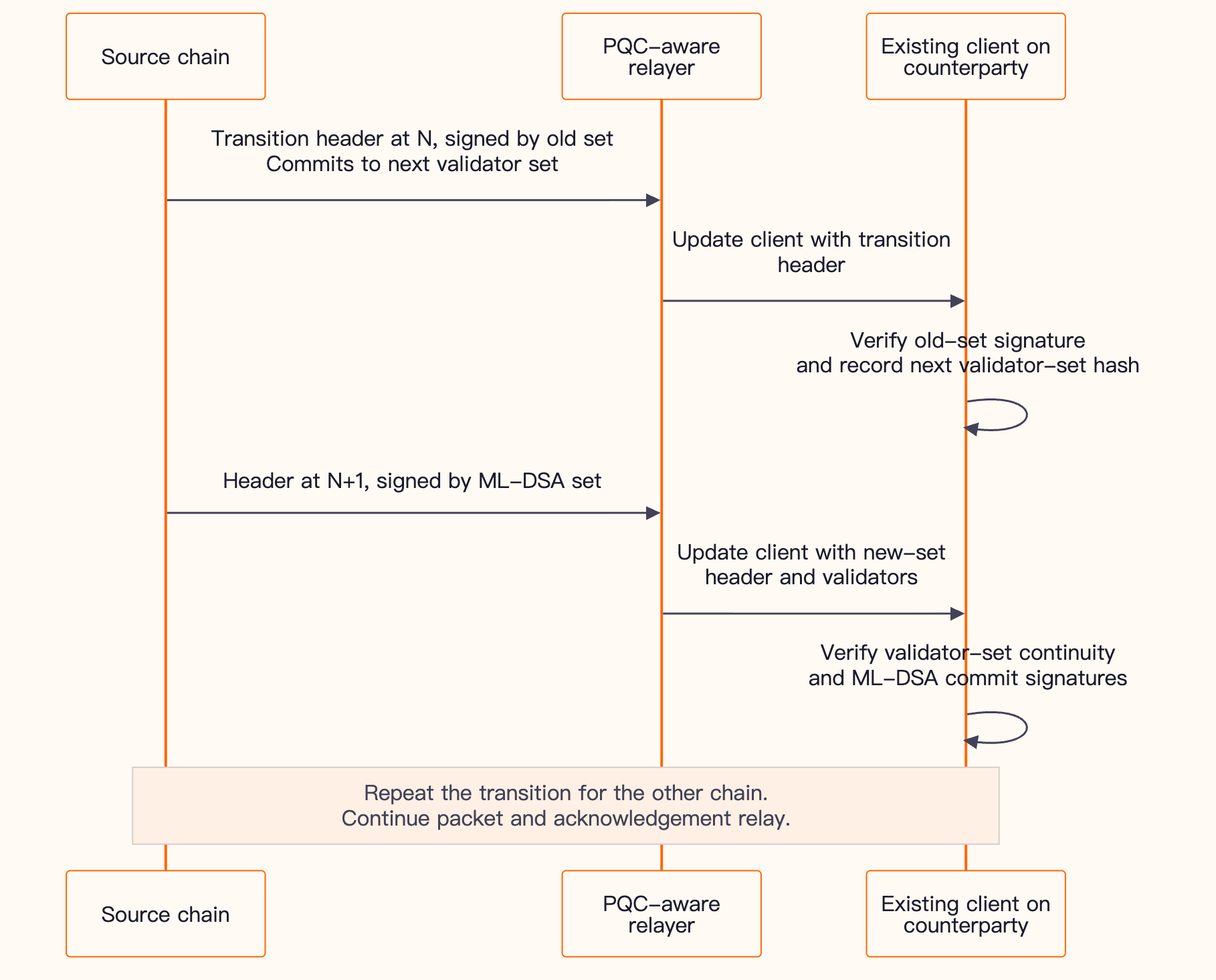
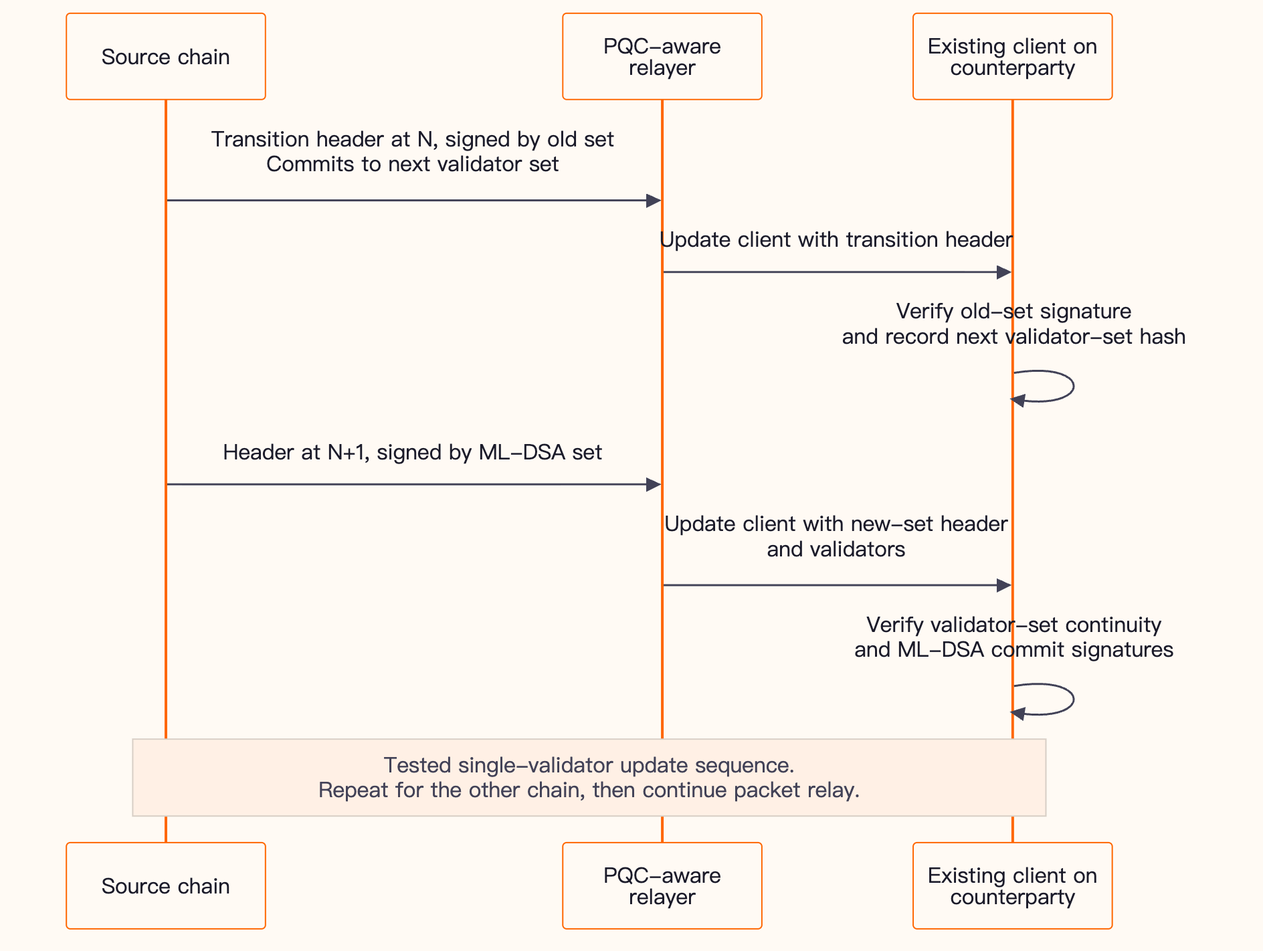
docs: refine post-quantum migration article and diagrams

diff --git a/x/pqcauth/pqc-migration.md b/x/pqcauth/pqc-migration.md
@@ -1,10 +1,12 @@
-# Dora Vota Post-Quantum Migration: Architecture, Implementation, and Validation
+# Dora Vota’s Post-Quantum Migration: Architecture, Security Model, and Evaluation
 
-Dora Vota's migration combines **native ML-DSA-65 accounts and consensus keys** with **hybrid authentication for legacy accounts that must keep their addresses**. The aim is to upgrade the chain's signing systems while preserving its history and giving users a practical way to migrate address-bound assets and permissions.
+Dora Vota’s post-quantum migration introduces two complementary paths for transaction authentication: **native ML-DSA-65 accounts** and **hybrid transaction authentication for existing accounts that retain their addresses**. A separate migration replaces classical validator consensus keys with ML-DSA-65 keys. Together, these paths are intended to extend post-quantum protection to account and consensus signatures while preserving on-chain state.
 
-This article explains the staged upgrade path and the results of our account, consensus, and IBC tests. The tests demonstrate these capabilities in isolated networks; production migration and broader end-to-end security still require further validation.
+This article describes the architecture, security boundaries, migration dependencies, and functional evaluation of the implementation. Post-quantum cryptography (PQC) here refers primarily to digital signatures for authentication and integrity; it does not imply encryption of transaction data.
 
-## 1. Why Account Migration Needs Two Paths
+**Scope and status.** This revision, dated September 8, 2026, describes the SDK v0.55.0 / CometBFT v0.40.0 target implementation. The reported results were obtained in controlled, single-server test networks. Implemented capabilities and observed test outcomes are distinct from production activation: this article is not a statement that all accounts, validators, or interchain connections have completed migration. Production readiness and deployment require separate operational and security assessment.
+
+## 1. Migration Rationale and Account Paths
 
 The classical starting point uses secp256k1 for most account signatures and Ed25519 for validator consensus signatures. A sufficiently capable quantum computer running Shor's algorithm could break the discrete-logarithm assumptions behind both schemes. An account's public key is normally revealed when it first signs an on-chain transaction and may also be exposed elsewhere. A hidden public key is therefore not a substitute for migrating authentication.
 
@@ -14,13 +16,13 @@ For an existing chain, changing the signature algorithm also changes how users c
 |---|---|---|
 | New account | Use native ML-DSA-65 through the SDK | New ML-DSA address |
 | Existing account whose assets and permissions can move | Create a native account, then migrate each supported asset and permission | New ML-DSA address |
-| Existing account that must retain its address | Register ML-DSA keys with `x/pqcauth` and require hybrid authorization | Existing address retained |
+| Existing account that must retain its address | Register ML-DSA keys with `x/pqcauth` and require hybrid transaction authentication | Existing address retained |
 
 Validator consensus keys follow a separate migration path. Rotating them changes the validator's consensus address, while preserving its staking operator identity. Protecting an operator account's transactions and protecting the validator's consensus votes are distinct tasks.
 
 ## 2. Native ML-DSA Support
 
-The [target dependencies](https://github.com/DoraFactory/doravota/blob/pqc-auth/go.mod) use Cosmos SDK v0.55.0 and CometBFT v0.40.0. Their ML-DSA-65 support is built on Cloudflare CIRCL's implementation of the algorithm standardized in [NIST FIPS 204](https://csrc.nist.gov/pubs/fips/204/final). ML-DSA relies on module-lattice problems and is designed to resist both classical and quantum attacks.
+The [target dependencies](https://github.com/DoraFactory/doravota/blob/pqc-auth/go.mod) use Cosmos SDK v0.55.0 and CometBFT v0.40.0. Their ML-DSA-65 support is built on Cloudflare CIRCL's implementation of the algorithm standardized in [NIST FIPS 204](https://csrc.nist.gov/pubs/fips/204/final). ML-DSA is a module-lattice-based digital signature algorithm designed to resist known classical and quantum attacks. Use of an algorithm standardized in FIPS 204 does not, by itself, constitute FIPS validation of the implementation or certification of the network.
 
 | Component | Responsibility |
 |---|---|
@@ -42,7 +44,7 @@ dorad keys add alice-pqc \
 
 The SDK derives the account address from the ML-DSA public key, signs transactions with the corresponding private key, and verifies them through `x/auth`.
 
-**Native ML-DSA accounts do not need an `x/pqcauth` second factor.** The current [Ante implementation](https://github.com/DoraFactory/doravota/blob/pqc-auth/x/pqcauth/ante/verify.go) recognizes a verified native ML-DSA signature as satisfying the global PQC requirement, including `REQUIRED` mode. Such accounts cannot register `pqcauth` keys or attach a `pqcauth` authorization for themselves. This keeps the native and legacy authentication paths distinct.
+**Native ML-DSA accounts do not require an additional `x/pqcauth` signature.** The current [Ante implementation](https://github.com/DoraFactory/doravota/blob/pqc-auth/x/pqcauth/ante/verify.go) recognizes a verified native ML-DSA signature as satisfying the global PQC requirement, including `REQUIRED` mode. Such accounts cannot register `pqcauth` keys or attach a `pqcauth` authorization for themselves. This keeps the native and legacy authentication paths distinct.
 
 ### 2.2 Native Consensus Signing
 
@@ -50,47 +52,47 @@ Once governance permits the `ml_dsa_65` validator public-key type, validators ca
 
 The migration retains CometBFT's consensus protocol and each validator's operator identity. The SDK's [`MsgRotateConsPubKey`](https://github.com/cosmos/cosmos-sdk/blob/v0.55.0/docs/architecture/adr-016-validator-consensus-key-rotation.md) schedules a new consensus key, and an ABCI validator update changes the active validator set. This protects signing with the new keys; it does not re-sign historical blocks or replace P2P node identities. The operational sequence is described in Section 4.2.
 
-## 3. Preserving Legacy Addresses with `x/pqcauth`
+## 3. Hybrid Transaction Authentication with `x/pqcauth`
 
-[`x/pqcauth`](https://github.com/DoraFactory/doravota/blob/pqc-auth/x/pqcauth/README.md) adds ML-DSA authorization to eligible classical accounts without replacing their `BaseAccount` public key or changing their address. An ordinary protected transaction must carry **both the existing Cosmos account signature and a valid ML-DSA-65 signature**.
+[`x/pqcauth`](https://github.com/DoraFactory/doravota/blob/pqc-auth/x/pqcauth/README.md) adds ML-DSA authorization to eligible classical accounts without replacing their `BaseAccount` public key or changing their address. An ordinary protected transaction must carry **both the existing Cosmos account signature and a valid ML-DSA-65 signature**. In this article, “hybrid” denotes this conjunction of classical and post-quantum signature verification, not a new signature algorithm or a claim of multi-factor authentication. Protection depends on correct transaction binding, enforcement, and custody of the registered keys.
 
 ### 3.1 Transaction Verification
 
-The second signature is carried in [`ExtensionPQCAuth`](https://github.com/DoraFactory/doravota/blob/pqc-auth/proto/doravota/pqcauth/v1/extension.proto), inside **`TxBody.extension_options`**, the SDK's critical extension field. It is not placed in `non_critical_extension_options`, whose unrecognized entries may be ignored. Each PQC entry identifies the protected signer and its position in `AuthInfo.signer_infos`; native ML-DSA signers do not receive second-factor entries.
+The additional ML-DSA signature is carried in [`ExtensionPQCAuth`](https://github.com/DoraFactory/doravota/blob/pqc-auth/proto/doravota/pqcauth/v1/extension.proto), inside **`TxBody.extension_options`**, the SDK's critical extension field. It is not placed in `non_critical_extension_options`, whose unrecognized entries may be ignored. Each PQC entry identifies the protected signer and its position in `AuthInfo.signer_infos`; native ML-DSA signers do not receive additional PQC authorization entries.
 
 ![Protected transaction verification: format checks, Cosmos signature verification, PQC policy and ML-DSA verification, then message execution.](https://raw.githubusercontent.com/DoraFactory/doravota/pqc-auth/x/pqcauth/diagrams/transaction-verification.png)
 
-*Figure 1. The protected transaction path. Any failed authentication check rejects the transaction before business-message execution; it never falls back to classical-only authorization. Registration and recovery use dedicated lifecycle proofs, described below.* [Diagram source](https://github.com/DoraFactory/doravota/blob/pqc-auth/x/pqcauth/diagrams/transaction-verification.mmd).
+*Figure 1. Simplified authentication path for an ordinary protected legacy-account transaction. Any failed authentication check rejects the transaction before business-message execution; it never falls back to classical-only authorization. Registration and recovery use dedicated lifecycle proofs, described below.* [Diagram source](https://github.com/DoraFactory/doravota/blob/pqc-auth/x/pqcauth/diagrams/transaction-verification.mmd).
 
-The [AnteHandler](https://github.com/DoraFactory/doravota/blob/pqc-auth/app/ante.go) validates extension placement and encoding, bounds transaction resources and verification work, verifies the standard signature, and then checks the second factor through [`VerifyPQCDecorator`](https://github.com/DoraFactory/doravota/blob/pqc-auth/x/pqcauth/ante/verify.go). Bank, staking, and Wasm messages run only after transaction authentication succeeds; business modules do not need to implement the same second-factor check independently.
+The [AnteHandler](https://github.com/DoraFactory/doravota/blob/pqc-auth/app/ante.go) validates extension placement and encoding, bounds transaction resources and verification work, verifies the standard signature, and then checks the ML-DSA authorization through [`VerifyPQCDecorator`](https://github.com/DoraFactory/doravota/blob/pqc-auth/x/pqcauth/ante/verify.go). Bank, staking, and Wasm messages run only after transaction authentication succeeds; business modules do not need to implement the same additional signature check independently.
 
 The ML-DSA signature covers a deterministic [`PQCSignDocV1`](https://github.com/DoraFactory/doravota/blob/pqc-auth/x/pqcauth/types/canonical_tx.go). It binds the network and chain, account number and sequence, signer identity and order, key ID, policy version, transaction body, and `AuthInfo`, including fee and gas. The PQC extension itself is removed from the canonical body to avoid signing a document that contains its own signature. Clients add the resulting extension before producing the standard Cosmos signature over the final transaction.
 
-These bindings prevent a valid authorization from being moved to another chain, account, sequence, key-policy version, or altered transaction. Protected transactions use `SIGN_MODE_DIRECT`.
+These bindings are designed to prevent cross-context replay and transaction substitution: verification checks the authorization against the chain, account, sequence, key-policy version, and transaction being processed. Protected transactions use `SIGN_MODE_DIRECT`.
 
-### 3.2 Registration, Rotation, and Recovery
+### 3.2 Registration, Key Rotation, and Signing-Key Recovery
 
 Registration atomically installs **two distinct ML-DSA public keys**: a routine signing key and a mandatory recovery key. It also enables account-level self-protection. The module stores public-key records and policy state, never private keys. Clients should keep the recovery private key offline and use it only for its authorized lifecycle operations.
 
 Account-key and protection-policy changes submitted at height H normally become effective at H+1. Transactions within H therefore cannot start using a newly registered or rotated key halfway through the block. Governance parameter changes have their own activation rules, including a safety delay for tightening changes.
 
-The [lifecycle messages](https://github.com/DoraFactory/doravota/blob/pqc-auth/proto/doravota/pqcauth/v1/tx.proto) support registration, signing-key and recovery-key rotation, protection changes, revocation of inactive keys, and recovery of a lost signing key. Recovery authorizes a specific replacement transaction; it does not remove the requirement for the account's standard Cosmos signature. Lifecycle messages must execute directly at the top level, with authorization bound to the exact message, so authz, group, or contract nesting cannot bypass their proofs.
+The [lifecycle messages](https://github.com/DoraFactory/doravota/blob/pqc-auth/proto/doravota/pqcauth/v1/tx.proto) support registration, signing-key and recovery-key rotation, protection changes, revocation of inactive keys, and recovery of a lost signing key. Signing-key recovery authorizes a specific replacement transaction; it does not remove the requirement for the account’s standard Cosmos signature. It therefore restores access to the ML-DSA signing path, not to a lost classical account private key, and is not a general account-recovery mechanism. Lifecycle messages must execute directly at the top level, with authorization bound to the exact message, so authz, group, or contract nesting cannot bypass their proofs.
 
 First registration has a separate trust boundary: no PQC key is yet bound to the account, so it relies on the classical signature plus proof of possession of both new keys. Registration must occur while that classical authorization remains trustworthy. The module supports an irreversible registration cutoff to restrict later enrollment; it cannot use a newly presented ML-DSA key to establish the rightful owner of an already compromised classical account. See the [bootstrap policy](https://github.com/DoraFactory/doravota/blob/pqc-auth/x/pqcauth/README.md#42-bootstrap-boundary-for-first-registration).
 
-### 3.3 What This Layer Protects
+### 3.3 Security Scope and Enforcement Boundaries
 
 `x/pqcauth` protects account-initiated SDK transactions. It does not itself replace consensus signatures, IBC light-client verification, P2P identities, or signature checks implemented inside contracts. Existing delegated permissions also need review; registering a key does not automatically revoke them.
 
-[`PrepareProposal` and `ProcessProposal`](https://github.com/DoraFactory/doravota/blob/pqc-auth/app/proposal.go) enforce transaction verification and aggregate resource limits as well. A proposer cannot obtain valid-block acceptance for an invalid protected transaction merely by bypassing the mempool.
+[`PrepareProposal` and `ProcessProposal`](https://github.com/DoraFactory/doravota/blob/pqc-auth/app/proposal.go) enforce transaction verification and aggregate resource limits as well. Under these handlers, transactions that fail the required proposal-stage authentication checks cause proposal rejection; bypassing mempool admission does not bypass those checks. Proposal acceptance does not guarantee that every business message will execute successfully.
 
 ## 4. Migration Sequence
 
 The migration separates **preserving chain state**, **upgrading account and consensus authentication**, and **extending coverage to the surrounding systems**. After the target software is available, account and consensus work can proceed in coordinated tracks rather than requiring every account to migrate at one height.
 
-![Dora Vota migration dependencies: preserve state through the bridge, enable native and legacy account paths and consensus rotation, then extend security coverage.](https://raw.githubusercontent.com/DoraFactory/doravota/pqc-auth/x/pqcauth/diagrams/migration-sequence.png)
+![Dora Vota migration dependencies: preserve state through the bridge, enable native and legacy account paths and consensus rotation, with parallel wallet, custody, and interchain integration.](https://raw.githubusercontent.com/DoraFactory/doravota/pqc-auth/x/pqcauth/diagrams/migration-sequence.png)
 
-*Figure 2. Migration dependencies, not a completion chart. Native and hybrid account paths cover different account populations. Core account and consensus coverage does not imply end-to-end post-quantum security.* [Diagram source](https://github.com/DoraFactory/doravota/blob/pqc-auth/x/pqcauth/diagrams/migration-sequence.mmd).
+*Figure 2. Software dependencies and parallel migration work, not deployment status. Solid arrows show the software upgrade path and the account and consensus capabilities it enables. Dashed links identify supporting work that can proceed alongside migration. Native and hybrid paths serve different account populations; neither the diagram nor core signing coverage implies end-to-end post-quantum security.* [Diagram source](https://github.com/DoraFactory/doravota/blob/pqc-auth/x/pqcauth/diagrams/migration-sequence.mmd).
 
 ### 4.1 Preserve Application and On-Chain State
 
@@ -107,13 +109,13 @@ Some migrations needed by the older state no longer exist in the target dependen
 
 A consensus-key rotation requires both an on-chain update and a coordinated change to the validator's signing infrastructure:
 
-1. **Permit the key type.** Governance executes `cosmos.consensus.v1.MsgUpdateParams` to add `ml_dsa_65` to the allowed validator key types while retaining types still in use.
-2. **Prepare the replacement key.** Generate it in an isolated home with `dorad init --consensus-key-algo ml_dsa_65`, then export its public key with `dorad comet show-validator --home <isolated-home>`. Key generation alone does not change the active validator.
-3. **Submit the rotation.** The operator submits `dorad tx staking rotate-cons-pub-key '<new-pubkey-json>' --from <operator>`. The SDK checks eligibility and charges the rotation fee. A protected classical operator account must use hybrid authorization; a native operator account signs through the native path.
-4. **Coordinate activation.** Read `apply_height` from the committed transaction events. Stop the affected signer and install the replacement key using the rehearsed procedure, preserving its signing-state safeguards. Ensure the remaining online voting power can carry the chain across activation; do not run duplicate signers or reset signing state to force progress.
-5. **Verify before continuing.** Check staking state, the CometBFT validator set at the relevant height, and a commit signed by the new consensus address. Confirm block production before rotating another validator.
+1. **Enable the supported key type.** Update consensus parameters through governance to permit `ml_dsa_65`, retaining key types required by validators that have not yet migrated.
+2. **Prepare signing infrastructure.** Generate and securely provision the replacement key, verify signer compatibility, and rehearse backup and activation procedures before submitting an on-chain rotation.
+3. **Schedule the rotation.** Submit `MsgRotateConsPubKey` from the validator operator account using the applicable native or hybrid authentication path. Rotation remains subject to the SDK’s eligibility checks and configured fee.
+4. **Coordinate activation.** Use the committed rotation event’s `apply_height` to coordinate the signer change. Preserve anti-double-signing state and ensure that more than two-thirds of total voting power remains online and able to sign validly. Do not run duplicate signers or reset signing state to force progress.
+5. **Verify the transition.** Check staking state, the active CometBFT validator set, commits signed by the replacement key, and continued block production before proceeding with further rotations.
 
-In our four-validator tests, we rotated one validator at a time while the other three continued signing. Production scheduling must account for voting power, not only validator count, and keep more than two-thirds available. Use the reported activation height rather than assuming a fixed offset from transaction inclusion. The four-validator experiment observed H+2; Section 6 describes a separate single-validator transition.
+In our four-validator tests, we rotated one validator at a time while the other three continued signing. Production scheduling must account for voting power rather than validator count. Use the reported activation height rather than assuming a fixed offset from transaction inclusion. The four-validator experiment observed H+2; Section 6 describes a separate single-validator transition.
 
 ### 4.3 Migrate Accounts and Tighten Policy
 
@@ -129,20 +131,20 @@ The relevant enforcement modes apply as follows to ordinary transactions:
 
 An extension that is present must verify even in `OPTIONAL` mode. New registrations enable self-protection at H+1, so optional network-wide enforcement does not mean those accounts are unprotected. Policy tightening, wallet readiness, registration rules, and recovery procedures must be coordinated before enforcement expands.
 
-## 5. Four-Validator Test Results and Measured Costs
+## 5. Functional Evaluation and Measured Costs
 
 We tested the migration with four isolated validator processes on one server, each with its own home, database, ports, and consensus key. The setup also included four user wallets and four operator accounts.
 
-The tests confirmed:
+The following outcomes were observed in the tested configuration:
 
-- Completion of the SDK v0.47 → v0.53 → v0.55 upgrade, with matching App Hash values across the four nodes at the checked heights after each upgrade.
+- The SDK v0.47 → v0.53 → v0.55 upgrade completed, with matching application hashes (`AppHash`) across the four nodes at the checked heights after each upgrade. This establishes agreement at those checkpoints, not an exhaustive verification of all migrated historical state.
 - Successful registration and hybrid transactions, with classical-only transactions from protected accounts rejected.
 - Four Ed25519 → ML-DSA-65 consensus-key rotations, each observed at H+2, followed by continued block production after all nodes restarted.
-- 53 successful on-chain transactions across the tests, including four transfers signed directly by two native ML-DSA accounts.
+- Native account signing was exercised by four successful transfers from two ML-DSA accounts. Across all scenarios, 53 transactions completed successfully; including the registration, transfer, and rotation scenarios described above.
 
 ### 5.1 Transaction Size and Gas
 
-The comparison used the same SDK v0.55 binary and standard `MsgSend`, with four successful transactions per group. Sizes are decoded raw protobuf transaction bytes from RPC, not JSON response sizes. These are small-sample measurements from this test configuration, not throughput or latency benchmarks.
+The comparison used the same SDK v0.55 binary and standard `MsgSend`, with four successful transactions per group. Sizes are decoded raw protobuf transaction bytes from RPC, not JSON response sizes. These are small-sample measurements from this test configuration, not throughput or latency benchmarks. Reported values apply to the observed transactions and configured gas schedule.
 
 | Account authentication | Consensus signing | Raw transaction size | Gas used |
 |---|---|---:|---:|
@@ -161,31 +163,31 @@ Consensus signatures are outside the transaction bytes and account Ante gas path
 
 With four validators signing a commit, signature bytes alone increase from `4 × 64 = 256 B` for Ed25519 to `4 × 3,309 = 13,236 B` for ML-DSA-65: an additional **12,980 B per commit**, before encoding overhead. Larger validator sets increase that cost, and proposals and vote propagation also need measurement.
 
-These single-server tests validate state-machine and rotation behavior. They do not measure inter-host latency, packet loss, failure-domain isolation, sustained throughput, or production-scale validator traffic.
+These single-server tests provide functional evidence for the exercised state transitions and key rotations. They do not measure inter-host latency, packet loss, failure-domain isolation, sustained throughput, or production-scale validator traffic.
 
 ## 6. IBC Compatibility Across Consensus-Key Rotation
 
-We tested IBC compatibility by connecting two independent Dora chains on one server, **with one validator per chain**. We established IBC clients, a connection, and an ICS20 channel, then rotated both chains' consensus keys to ML-DSA-65 without recreating the clients.
+We tested IBC compatibility by connecting two independent Dora Vota test chains on one server, **with one validator per chain**. We established IBC clients, a connection, and an ICS-20 fungible-token transfer channel, then rotated both chains' consensus keys to ML-DSA-65 without recreating the clients.
 
-The critical step was preserving the light client's trust transition. Before the first ML-DSA-signed header, the relayer submitted a transition header signed by the old validator set that committed to the next validator set.
+The tested relay sequence preserved the light client’s trust transition by first submitting a header signed by the old validator set that committed to the next validator set, followed by an ML-DSA-signed header. This describes the update sequence used in the experiment, not a universal procedure for all IBC client implementations or validator-set changes.
 
 ![IBC key transition: relay the old-set transition header before the first ML-DSA-signed header so the existing client can verify validator-set continuity.](https://raw.githubusercontent.com/DoraFactory/doravota/pqc-auth/x/pqcauth/diagrams/ibc-key-transition.png)
 
-*Figure 3. Header order in the tested transition. N denotes the transition header height, not the rotation transaction height. The relayer submits evidence; the counterparty light client verifies it.* [Diagram source](https://github.com/DoraFactory/doravota/blob/pqc-auth/x/pqcauth/diagrams/ibc-key-transition.mmd).
+*Figure 3. Header order in the tested single-validator transition. N denotes the transition header height, not the rotation transaction height. The relayer submits evidence; the counterparty light client verifies it.* [Diagram source](https://github.com/DoraFactory/doravota/blob/pqc-auth/x/pqcauth/diagrams/ibc-key-transition.mmd).
 
-The PQC-aware relayer handled ML-DSA header encoding, and its native ML-DSA account signed relay transactions. Account signing and light-client verification are separate requirements.
+The relayer used in the test supported ML-DSA header encoding, and its native ML-DSA account signed relay transactions. Account signing and light-client verification are separate requirements.
 
 | Check or measurement | Test result |
 |---|---|
-| ICS20 transfer, client update, `RecvPacket`, and `Acknowledgement` | Successful before rotation; successful in both directions after rotation |
+| ICS-20 transfer, client update, `RecvPacket`, and `Acknowledgement` | Successful before rotation; successful in both directions after rotation |
 | Existing IBC clients | Retained across the transition |
 | ML-DSA validator sets and commits | Accepted by the tested client-verification path |
 | Native ML-DSA relayer account | Successfully signed relay transactions |
 | Serialized IBC header, single-validator topology | 855 B → 11,794–11,796 B, about 10.7 KiB additional data |
 
-This demonstrates compatibility for the tested binaries and ICS20 flow. It does not establish compatibility with every counterparty or IBC application. Multi-validator transitions, ICA, contract IBC callbacks, timeout paths, cross-host failures, and sustained relayer load remain to be evaluated.
+This demonstrates compatibility for the tested binaries and ICS-20 flow. It does not establish compatibility with every counterparty or IBC application. Multi-validator transitions, ICA, contract IBC callbacks, timeout paths, cross-host failures, and sustained relayer load remain to be evaluated.
 
-## 7. Work Remaining Beyond Account and Consensus Signing
+## 7. Remaining Work and Production Readiness
 
 The native and hybrid paths address different parts of transaction authentication. End-to-end security also depends on the systems that authorize, transport, and operate those transactions.
 
@@ -194,11 +196,11 @@ The native and hybrid paths address different parts of transaction authenticatio
 | Wallets and custody | Integrate native ML-DSA and critical extension signing, including offline signing, registration, rotation, and recovery in wallets, exchanges, hardware devices, and custody systems |
 | Address-bound business state | Provide explicit migration procedures for staking, vesting, contract administration, authz, feegrant, DAOs, and ICA; inventory signature checks inside contracts |
 | Validator operations | Validate remote signers, HSM support, backups, activation procedures, and incident recovery with ML-DSA |
-| Interchain paths | Extend compatibility and failure testing to production-scale validator sets, other clients and counterparties, and IBC applications beyond the tested ICS20 flow |
+| Interchain paths | Extend compatibility and failure testing to production-scale validator sets, other clients and counterparties, and IBC applications beyond the tested ICS-20 flow |
 | Addresses and hashes | Assess the target quantum-security level of the native implementation's 20-byte truncated SHA-256 address format and whether a longer, versioned format is needed |
 | Network and release infrastructure | Inventory classical dependencies in P2P identities, RPC TLS, release signing, upgrade artifacts, and software distribution |
 | Performance and assurance | Calibrate verification budgets, gas, block limits, bandwidth, and timeouts at production scale; complete independent cryptographic, application, and upgrade reviews |
 
-The deployment plan should preserve historical state first, make both account paths usable, and rotate consensus keys under voting-power and signer-readiness constraints. Each expansion of coverage needs its own evidence; the account and consensus milestones alone do not certify the entire system as post-quantum secure.
+The deployment plan should preserve historical state first, make both account paths usable, and rotate consensus keys under voting-power and signer-readiness constraints. Each expansion of coverage requires separate evaluation. Functional interoperability, cryptographic assurance, and operational readiness are distinct claims; account and consensus signing milestones alone do not establish end-to-end post-quantum security.
 
 For detailed behavior and implementation references, see the [PQC Auth module documentation](https://github.com/DoraFactory/doravota/blob/pqc-auth/x/pqcauth/README.md).
